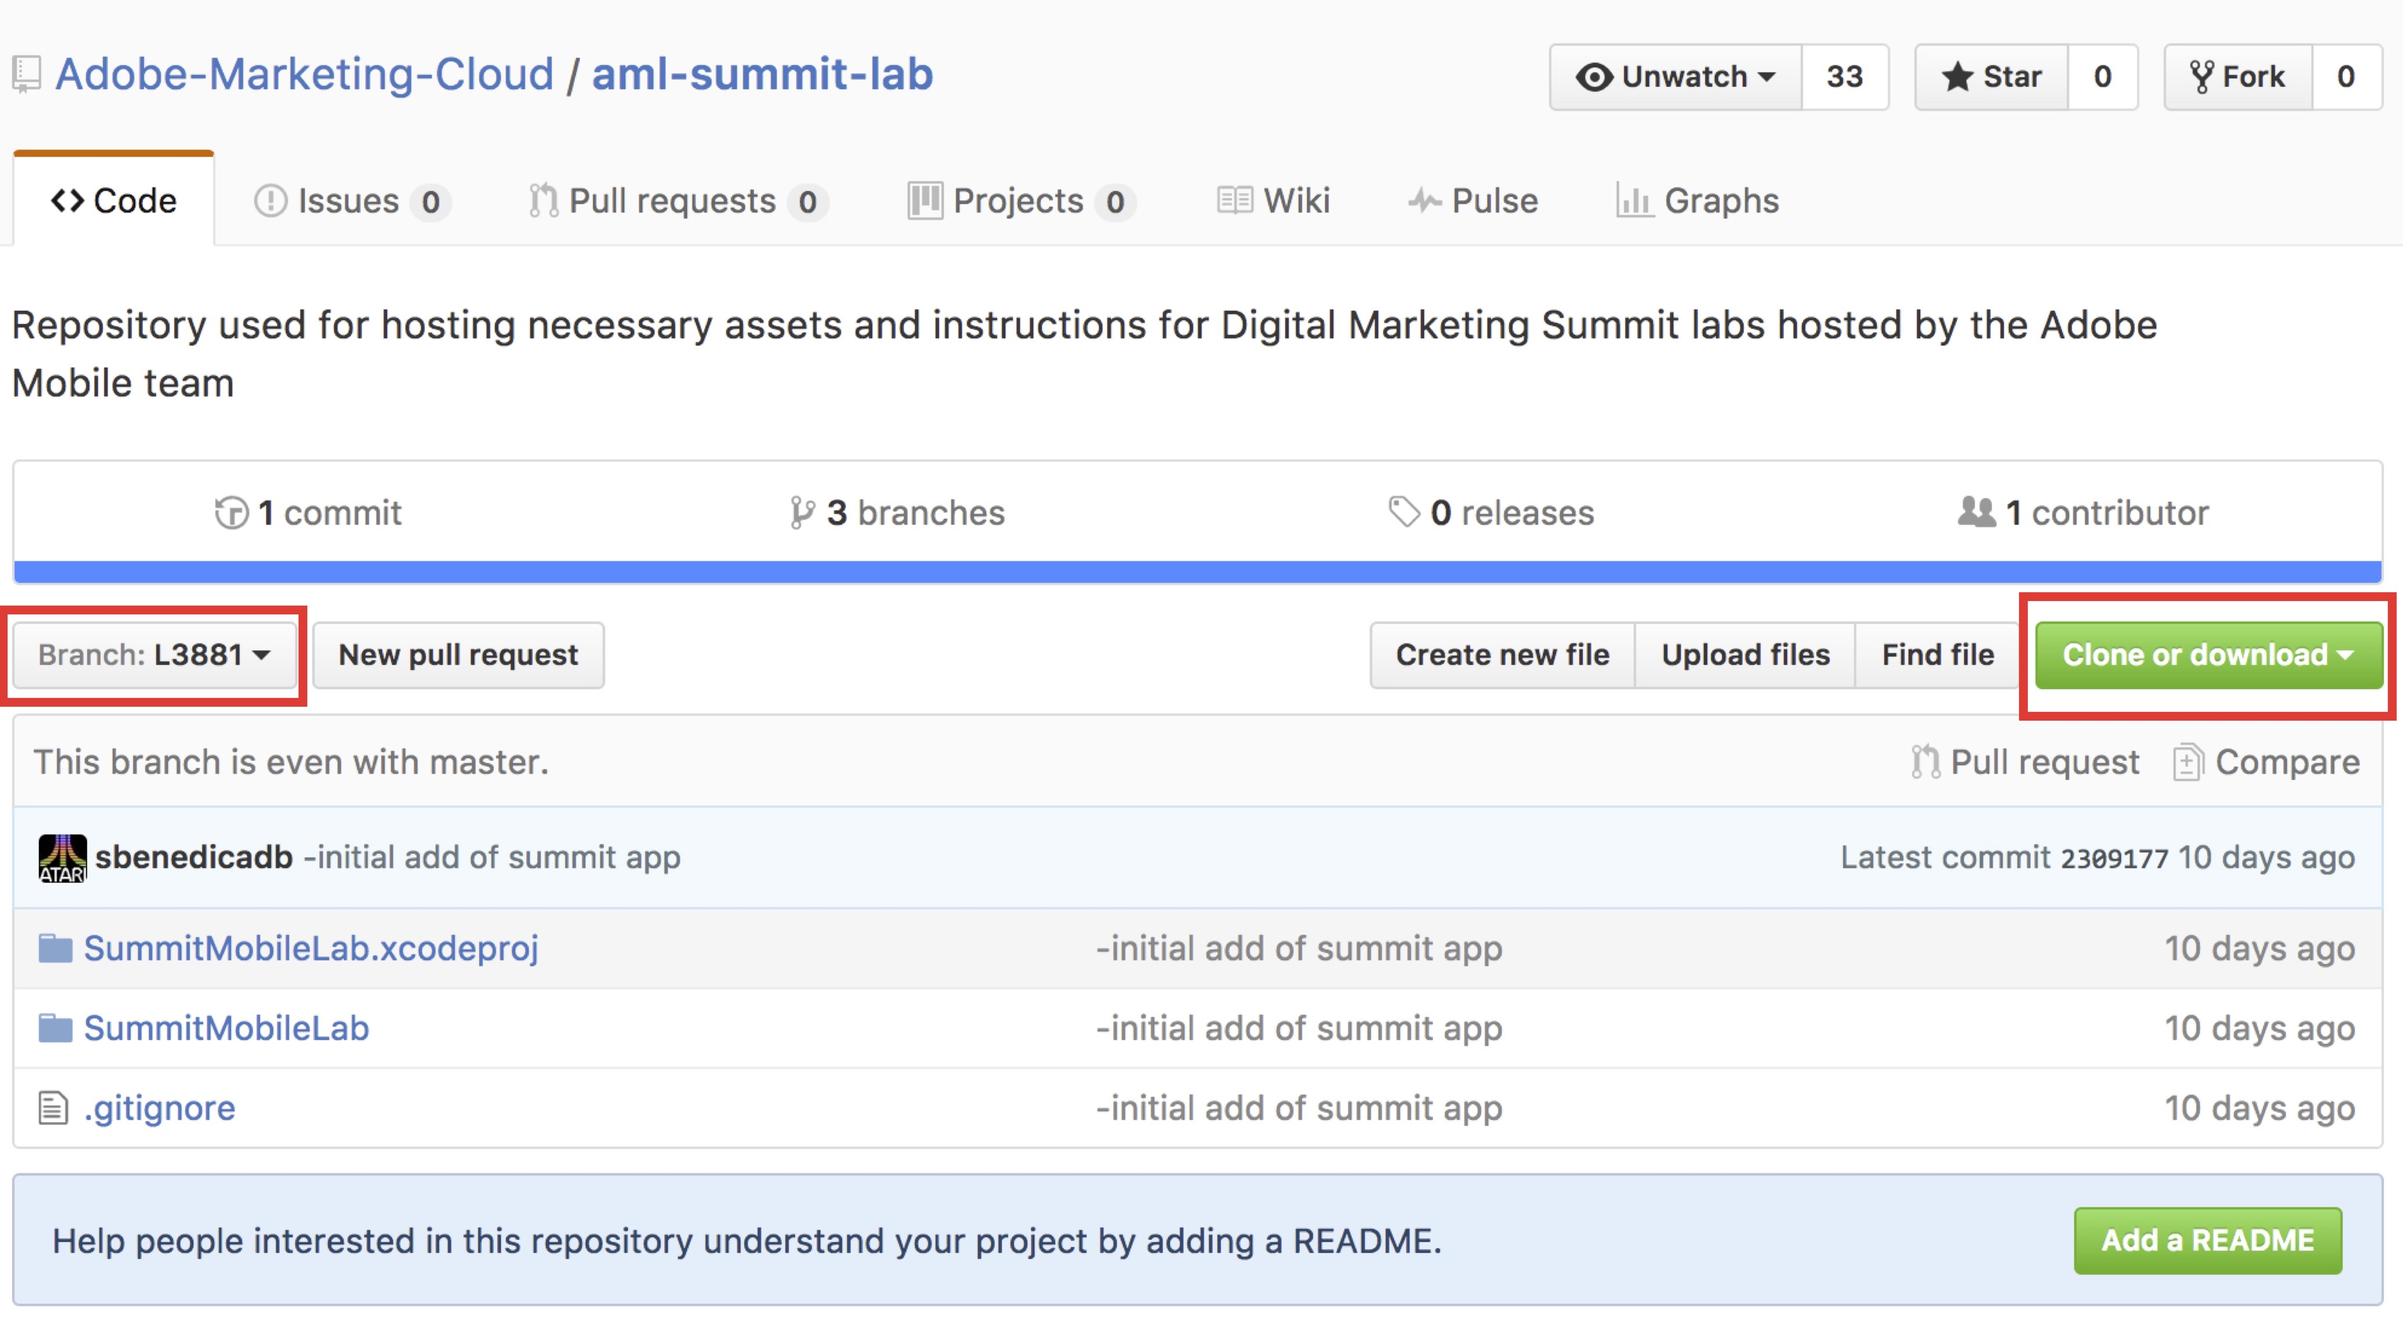
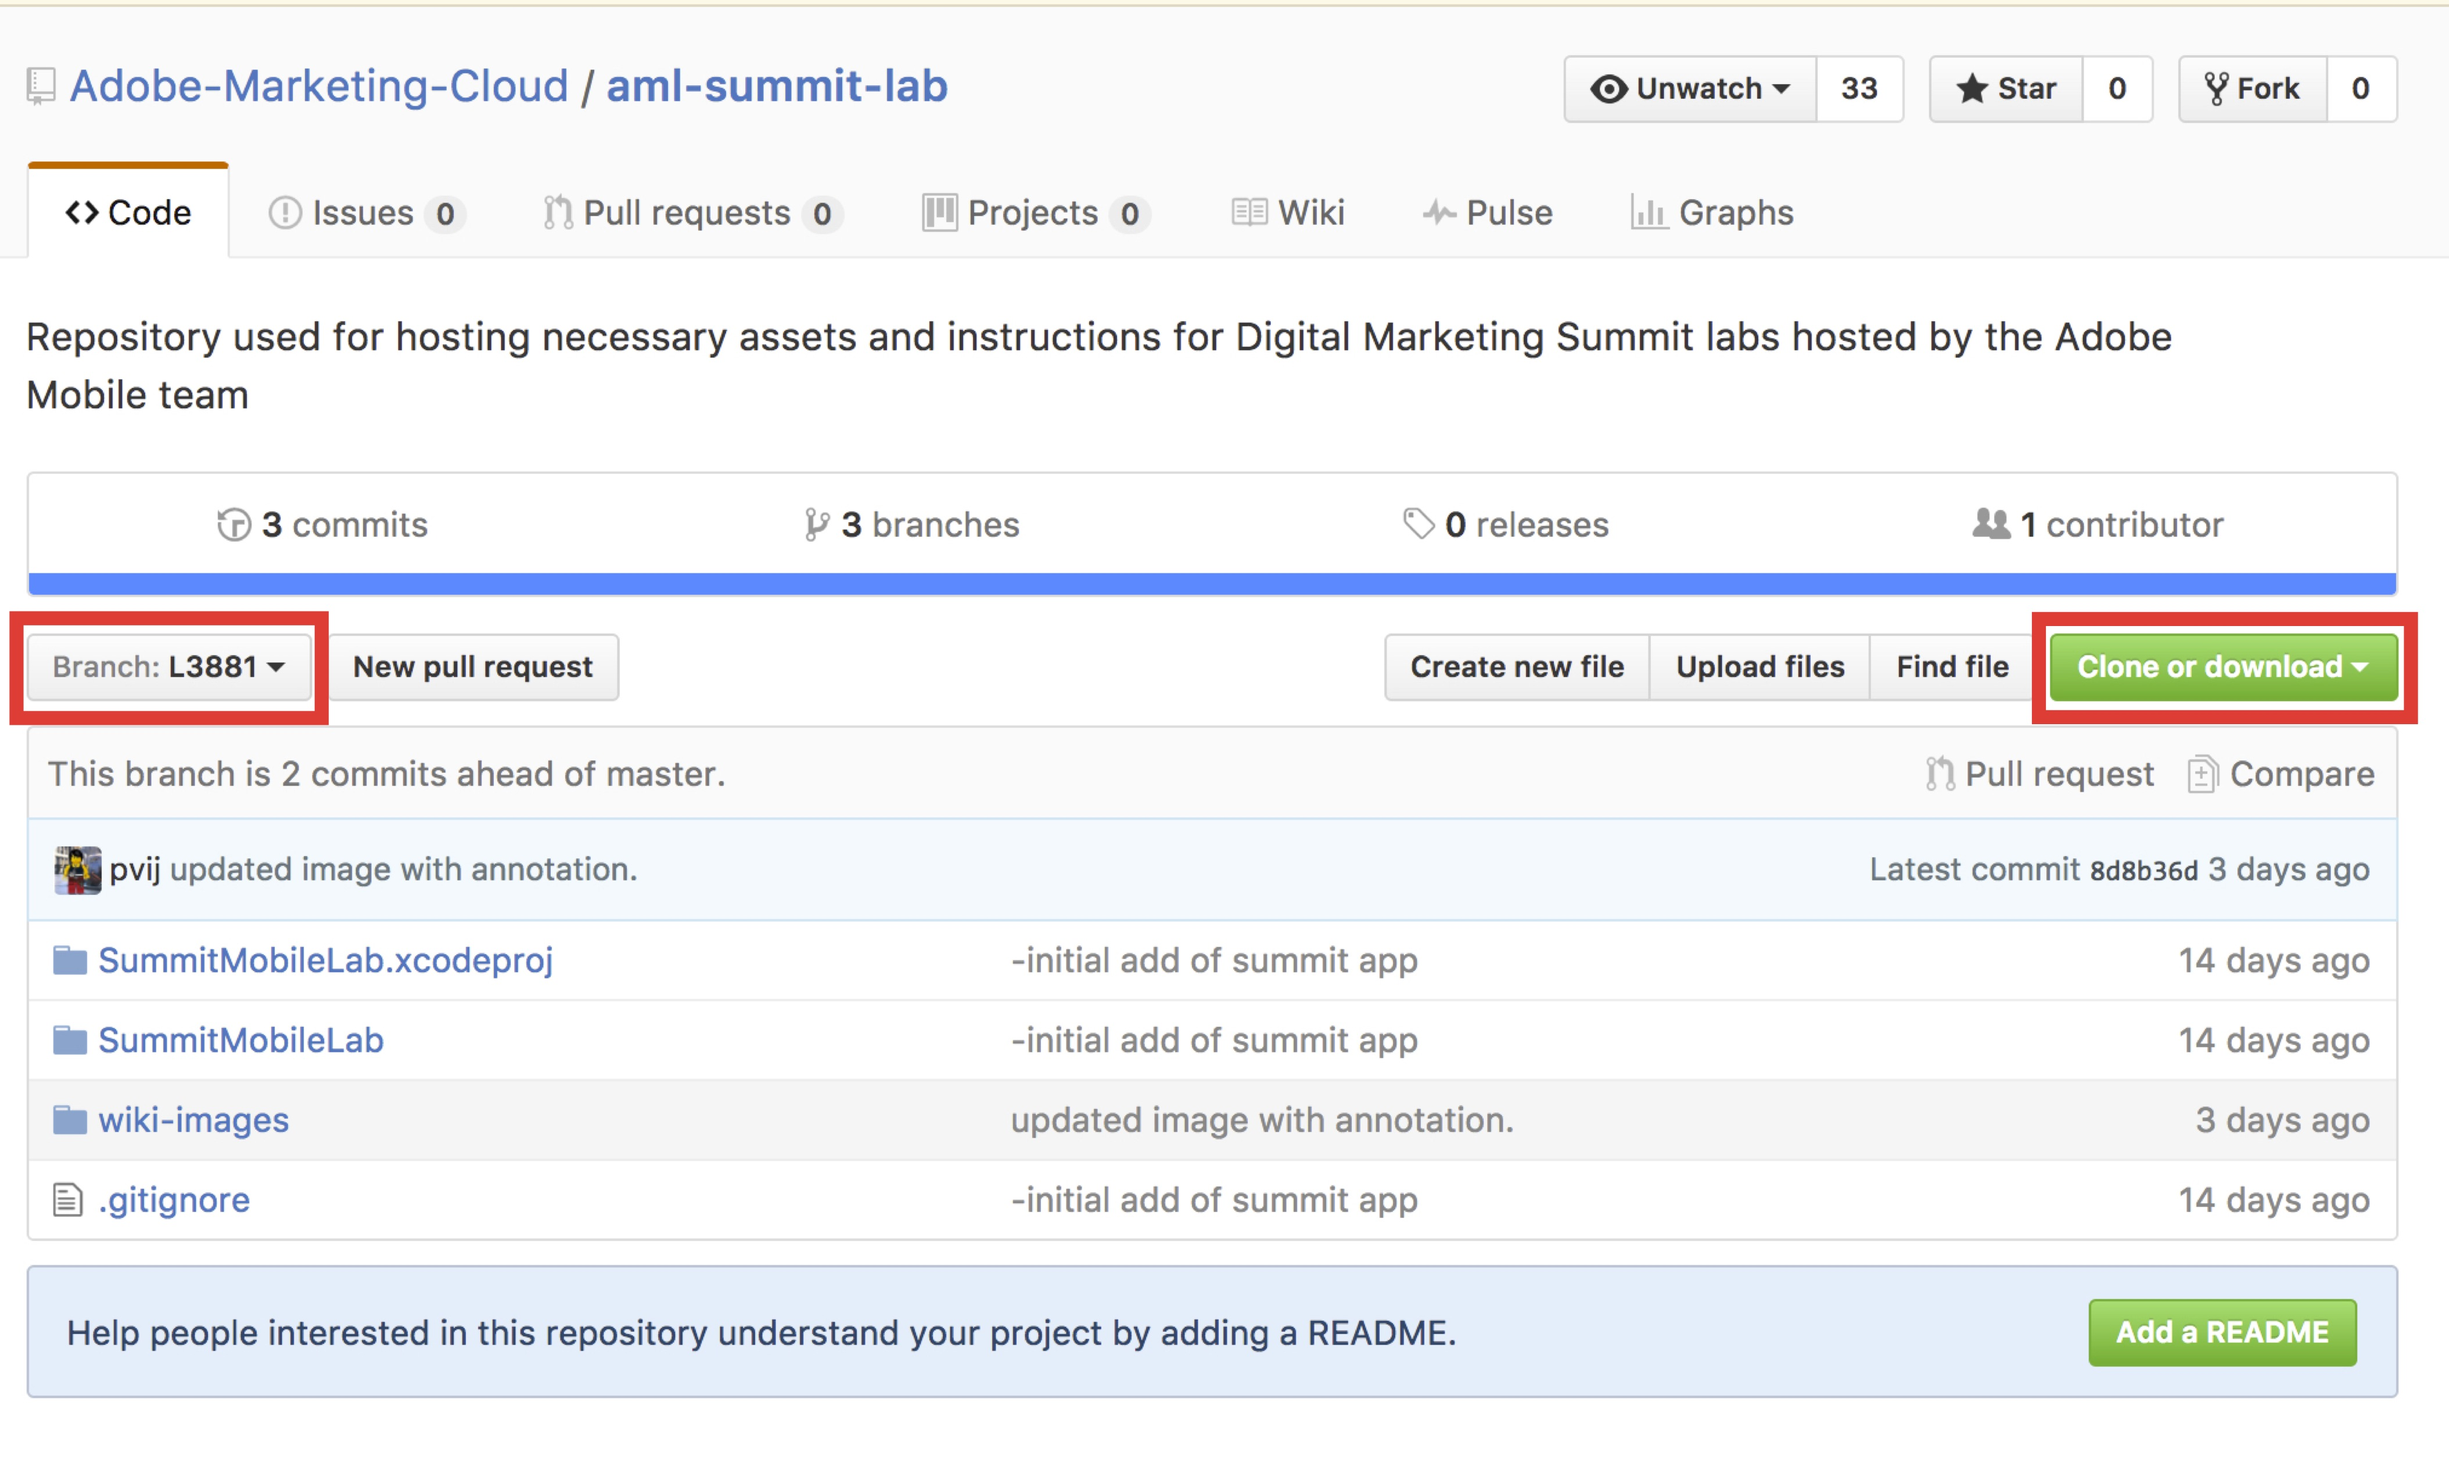
changes 2016-2017. Added wiki images.

diff --git a/SummitMobileLab/AppDelegate.m b/SummitMobileLab/AppDelegate.m
@@ -1,7 +1,7 @@
 /*************************************************************************
  
 ADOBE SYSTEMS INCORPORATED
-Copyright 2016 Adobe Systems Incorporated
+Copyright 2017 Adobe Systems Incorporated
 All Rights Reserved.
  
 NOTICE:  Adobe permits you to use, modify, and distribute this file in accordance with the
@@ -32,7 +32,7 @@ written permission of Adobe.
 	 * 2. collect lifecycle data with additional data reporting the year
 	 */
 	[ADBMobile setDebugLogging:YES];
-	[ADBMobile collectLifecycleDataWithAdditionalData:@{@"summit.year":@"2016"}];
+	[ADBMobile collectLifecycleDataWithAdditionalData:@{@"summit.year":@"2017"}];
 	
 	// initialize our fake data for the app
     [self loadDestinations];

diff --git a/SummitMobileLab/ViewControllers/TipDriverViewController.m b/SummitMobileLab/ViewControllers/TipDriverViewController.m
@@ -29,7 +29,7 @@ written permission of Adobe.
 	 * 2. track the location of the user after they arrive
 	 */
 	[ADBMobile trackState:@"Tip Driver" data:nil];
-	[ADBMobile trackLocation:_user.trip.destination.location data:@{@"summit.year":@"2016"}];
+	[ADBMobile trackLocation:_user.trip.destination.location data:@{@"summit.year":@"2017"}];
 	
 	
 	// update the labels in our UI

diff --git a/SummitMobileLab/AppDelegate.h b/SummitMobileLab/AppDelegate.h
@@ -1,7 +1,7 @@
 /*************************************************************************
  
 ADOBE SYSTEMS INCORPORATED
-Copyright 2016 Adobe Systems Incorporated
+Copyright 2017 Adobe Systems Incorporated
 All Rights Reserved.
  
 NOTICE:  Adobe permits you to use, modify, and distribute this file in accordance with the

diff --git a/SummitMobileLab/Models/Destination.h b/SummitMobileLab/Models/Destination.h
@@ -1,7 +1,7 @@
 /*************************************************************************
  
 ADOBE SYSTEMS INCORPORATED
-Copyright 2016 Adobe Systems Incorporated
+Copyright 2017 Adobe Systems Incorporated
 All Rights Reserved.
  
 NOTICE:  Adobe permits you to use, modify, and distribute this file in accordance with the

diff --git a/SummitMobileLab/Models/Destination.m b/SummitMobileLab/Models/Destination.m
@@ -1,7 +1,7 @@
 /*************************************************************************
  
 ADOBE SYSTEMS INCORPORATED
-Copyright 2016 Adobe Systems Incorporated
+Copyright 2017 Adobe Systems Incorporated
 All Rights Reserved.
  
 NOTICE:  Adobe permits you to use, modify, and distribute this file in accordance with the

diff --git a/SummitMobileLab/Models/TransportationMode.h b/SummitMobileLab/Models/TransportationMode.h
@@ -1,7 +1,7 @@
 /*************************************************************************
  
 ADOBE SYSTEMS INCORPORATED
-Copyright 2016 Adobe Systems Incorporated
+Copyright 2017 Adobe Systems Incorporated
 All Rights Reserved.
  
 NOTICE:  Adobe permits you to use, modify, and distribute this file in accordance with the

diff --git a/SummitMobileLab/Models/TransportationMode.m b/SummitMobileLab/Models/TransportationMode.m
@@ -1,7 +1,7 @@
 /*************************************************************************
  
 ADOBE SYSTEMS INCORPORATED
-Copyright 2016 Adobe Systems Incorporated
+Copyright 2017 Adobe Systems Incorporated
 All Rights Reserved.
  
 NOTICE:  Adobe permits you to use, modify, and distribute this file in accordance with the

diff --git a/SummitMobileLab/Models/Trip.h b/SummitMobileLab/Models/Trip.h
@@ -1,7 +1,7 @@
 /*************************************************************************
  
 ADOBE SYSTEMS INCORPORATED
-Copyright 2016 Adobe Systems Incorporated
+Copyright 2017 Adobe Systems Incorporated
 All Rights Reserved.
  
 NOTICE:  Adobe permits you to use, modify, and distribute this file in accordance with the

diff --git a/SummitMobileLab/Models/Trip.m b/SummitMobileLab/Models/Trip.m
@@ -1,7 +1,7 @@
 /*************************************************************************
  
 ADOBE SYSTEMS INCORPORATED
-Copyright 2016 Adobe Systems Incorporated
+Copyright 2017 Adobe Systems Incorporated
 All Rights Reserved.
  
 NOTICE:  Adobe permits you to use, modify, and distribute this file in accordance with the

diff --git a/SummitMobileLab/Models/User.h b/SummitMobileLab/Models/User.h
@@ -1,7 +1,7 @@
 /*************************************************************************
  
 ADOBE SYSTEMS INCORPORATED
-Copyright 2016 Adobe Systems Incorporated
+Copyright 2017 Adobe Systems Incorporated
 All Rights Reserved.
  
 NOTICE:  Adobe permits you to use, modify, and distribute this file in accordance with the

diff --git a/SummitMobileLab/Models/User.m b/SummitMobileLab/Models/User.m
@@ -1,7 +1,7 @@
 /*************************************************************************
  
 ADOBE SYSTEMS INCORPORATED
-Copyright 2016 Adobe Systems Incorporated
+Copyright 2017 Adobe Systems Incorporated
 All Rights Reserved.
  
 NOTICE:  Adobe permits you to use, modify, and distribute this file in accordance with the

diff --git a/SummitMobileLab/UI/TransportationModeView.h b/SummitMobileLab/UI/TransportationModeView.h
@@ -1,7 +1,7 @@
 /*************************************************************************
  
 ADOBE SYSTEMS INCORPORATED
-Copyright 2016 Adobe Systems Incorporated
+Copyright 2017 Adobe Systems Incorporated
 All Rights Reserved.
  
 NOTICE:  Adobe permits you to use, modify, and distribute this file in accordance with the
